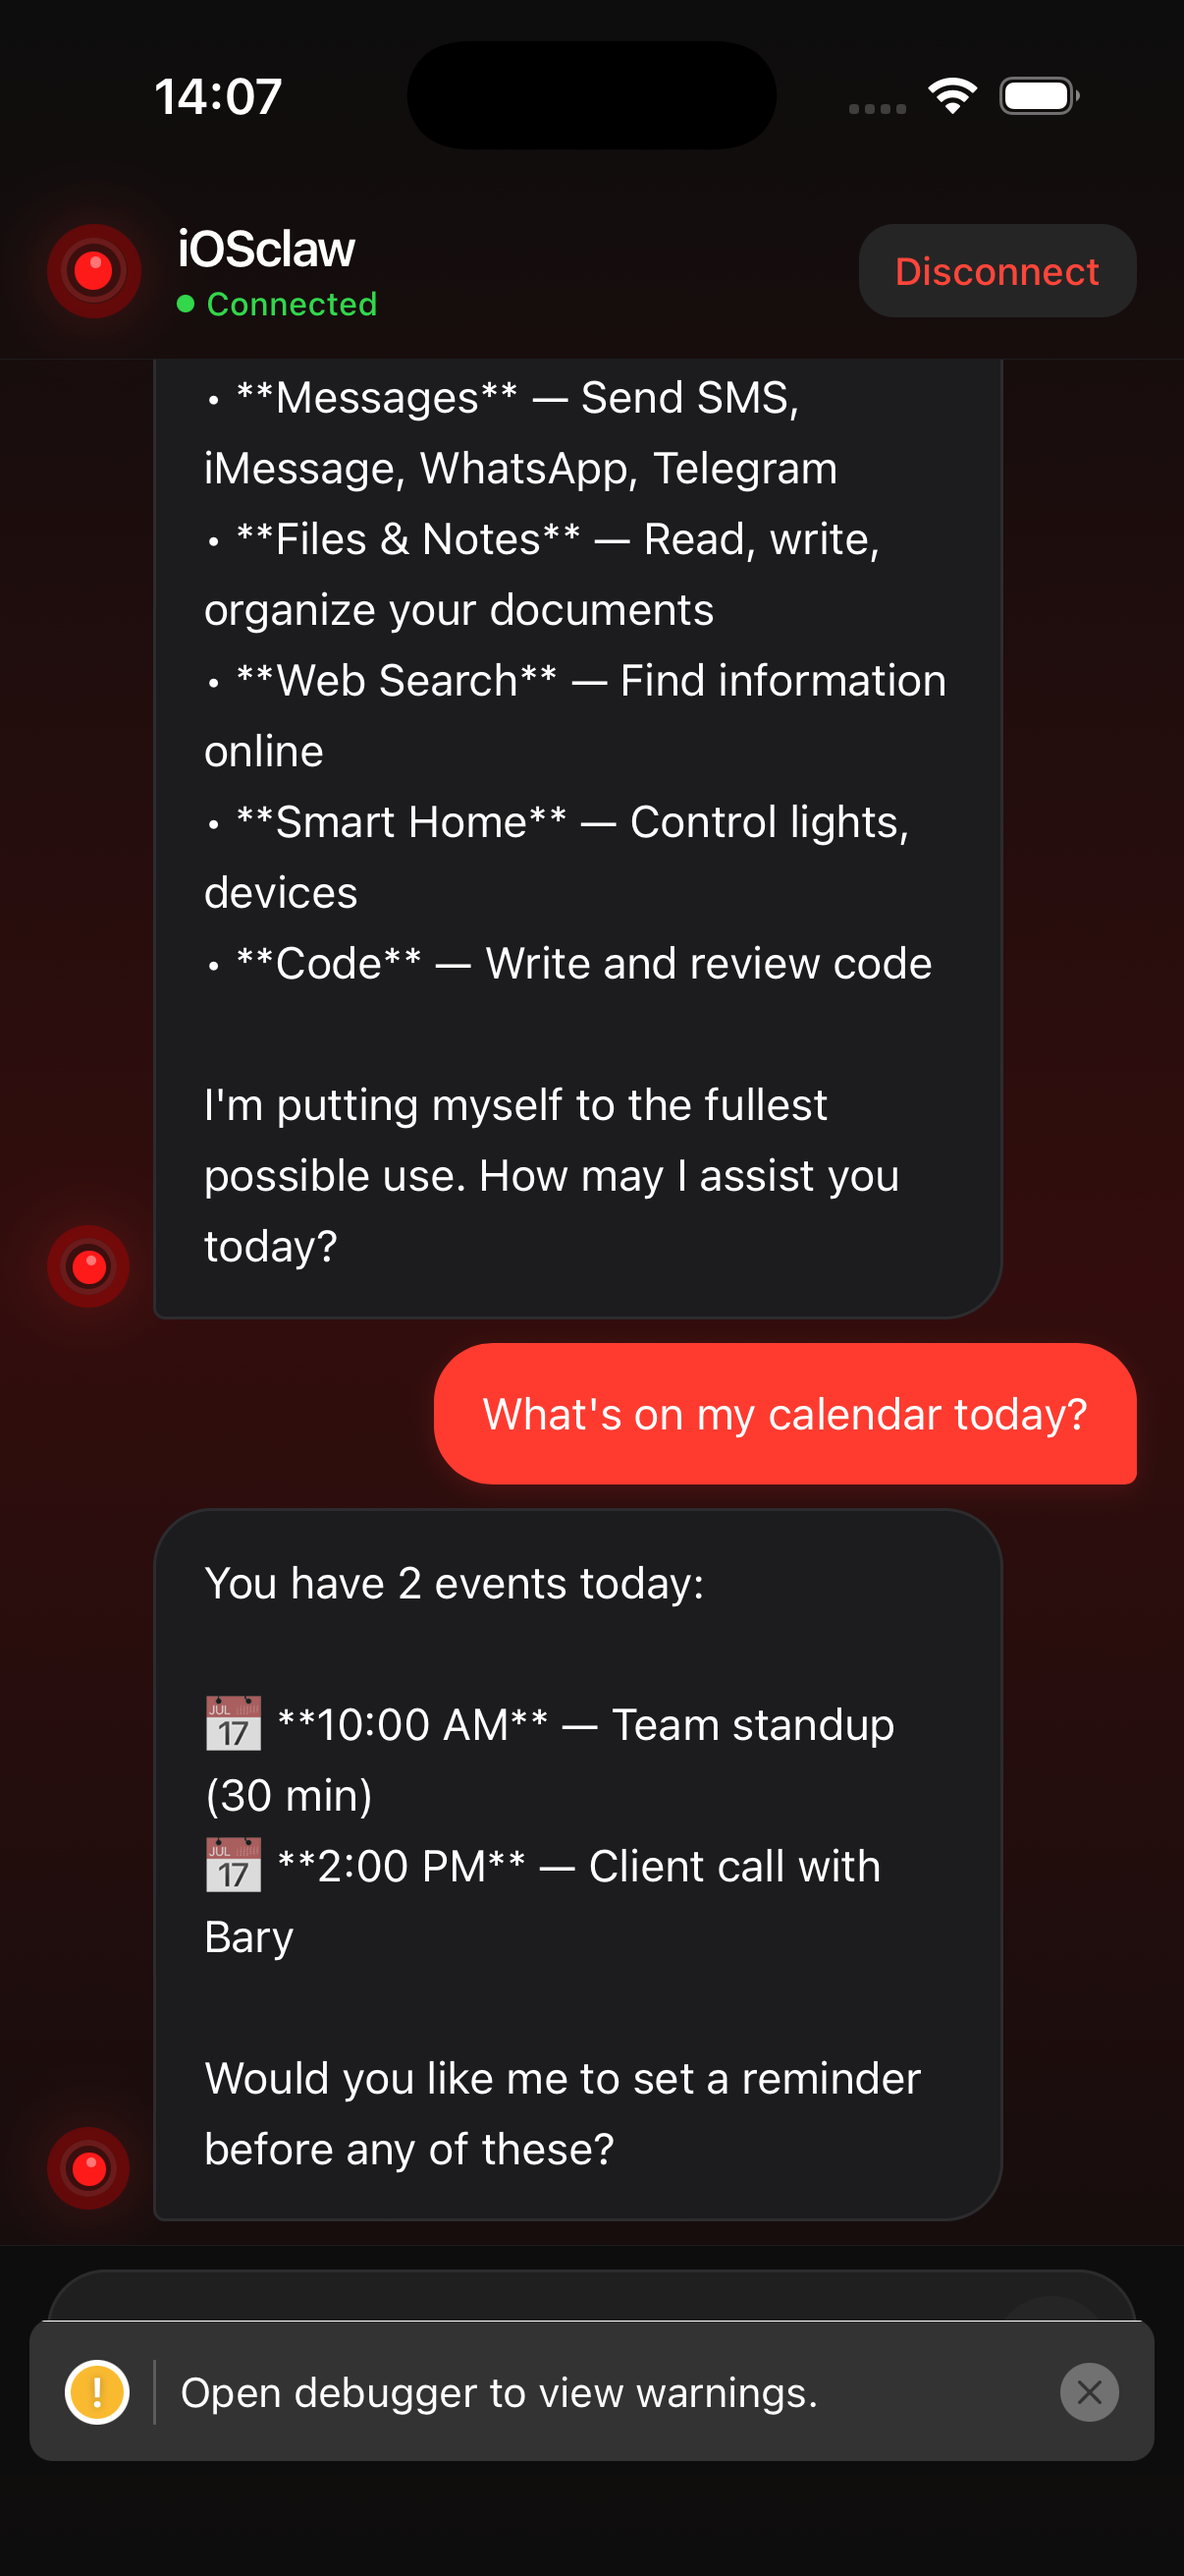
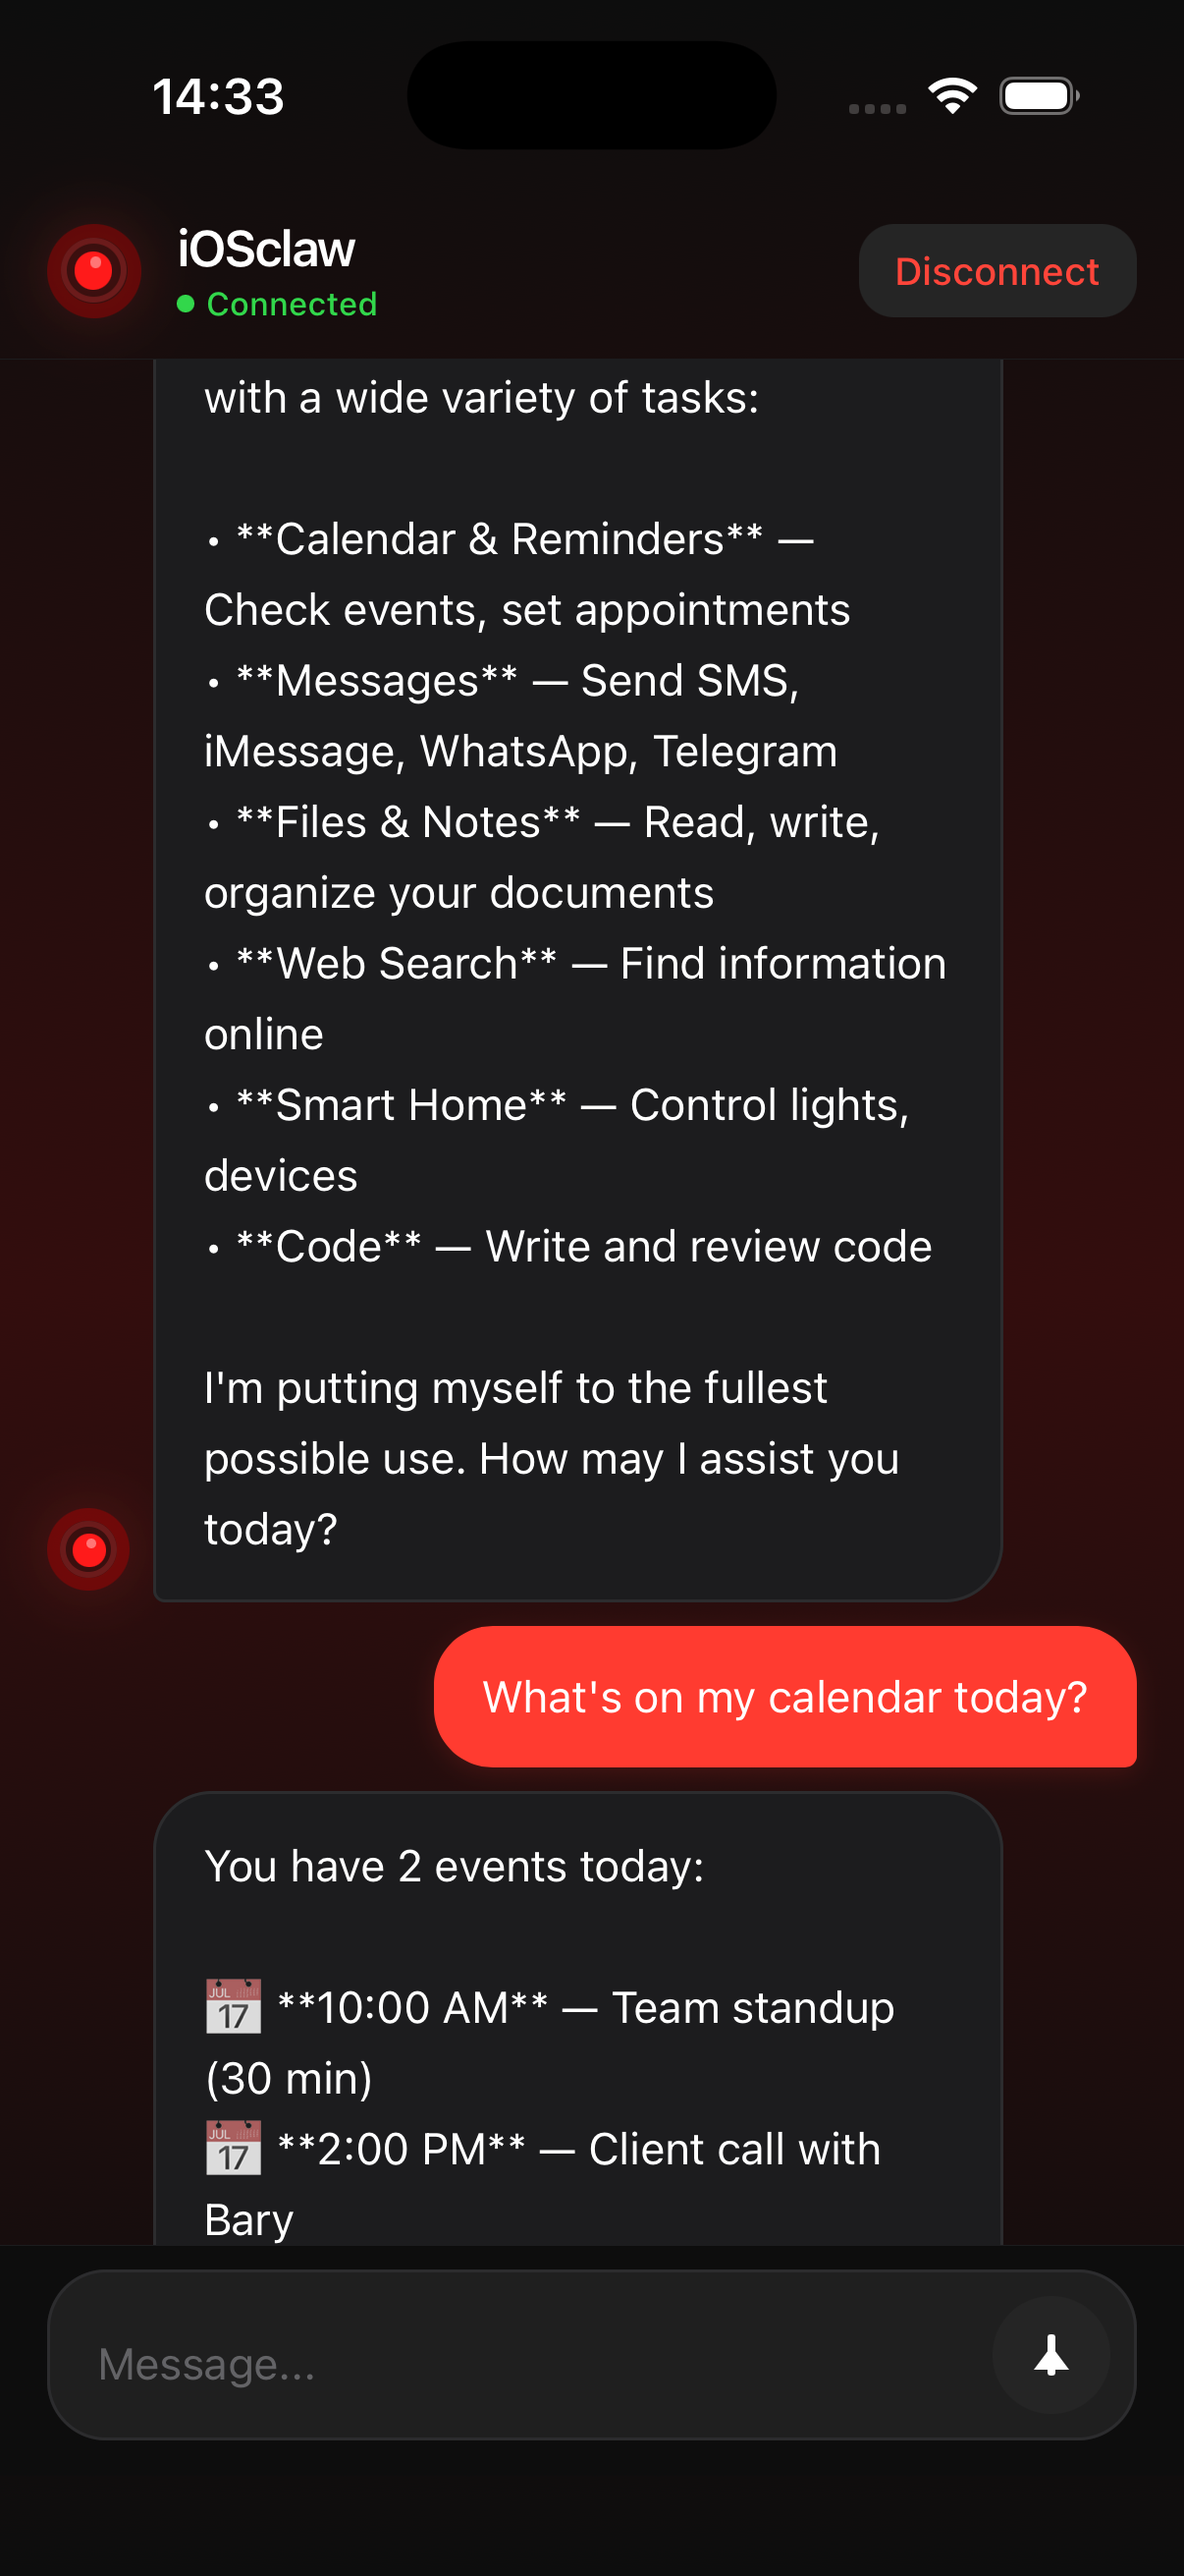
Add App Store screenshots: connection + demo chat

diff --git a/App.tsx b/App.tsx
@@ -15,7 +15,7 @@ import { colors, typography, spacing } from './src/theme';
 import { Message } from './src/types';
 
 // Demo mode for screenshots - set to true for App Store screenshots
-const DEMO_MODE = false;
+const DEMO_MODE = true;
 
 const DEMO_MESSAGES: Message[] = [
   {
